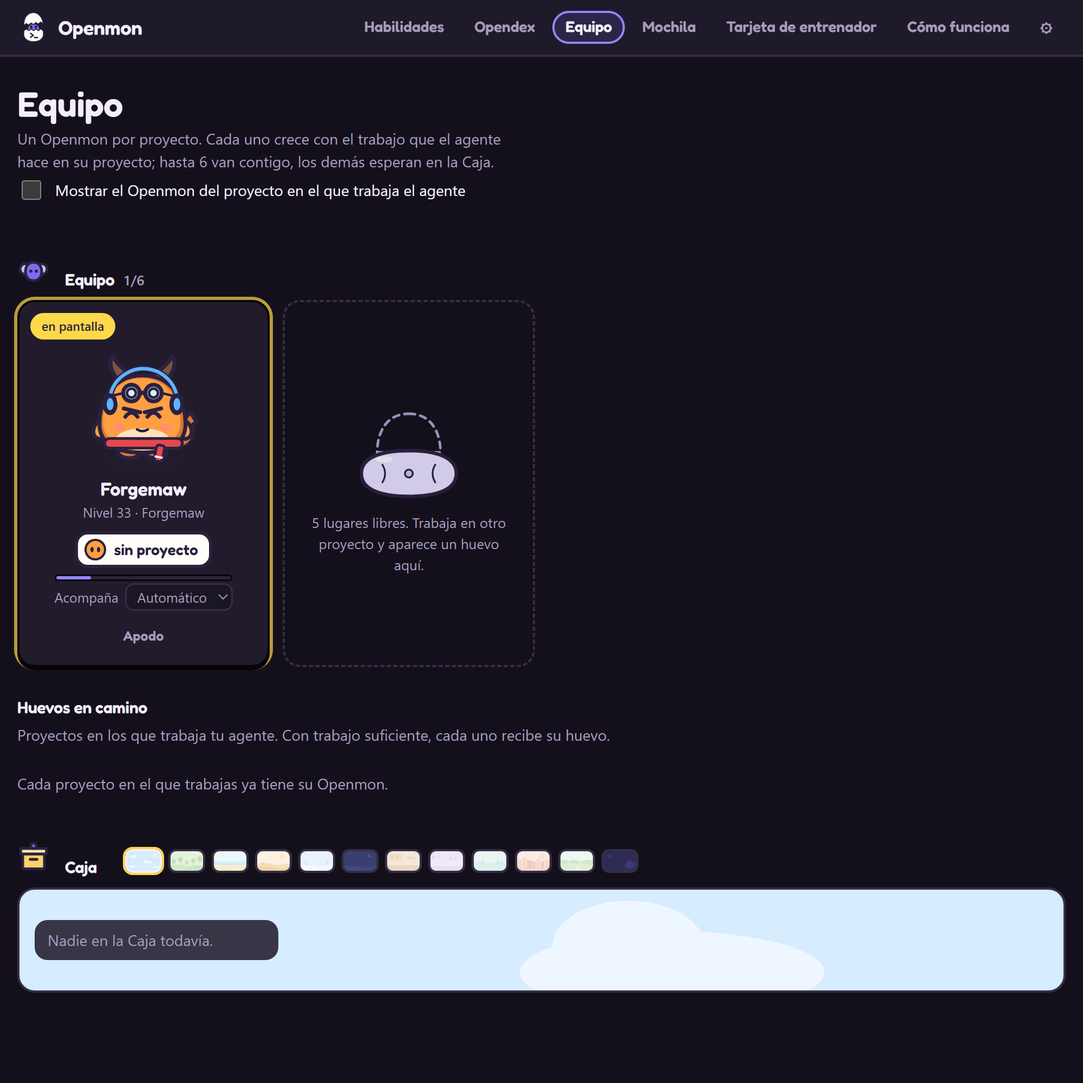
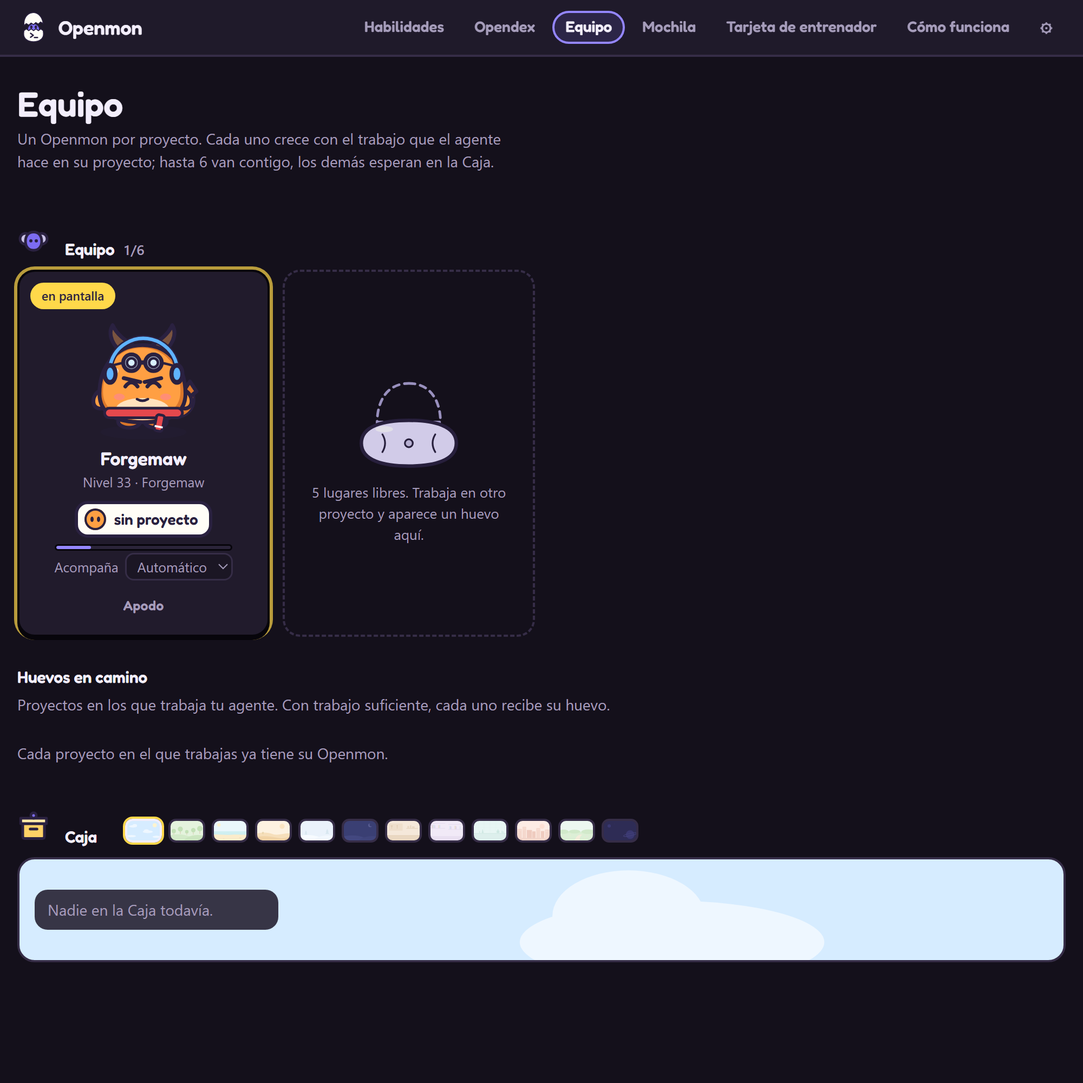
Drop "show the active project's pet": Follows replaces it
Pinning a project to an Openmon (Party > Follows) now covers what the
old switch did, without swapping the main pet behind your back. The
switch, its setting, its toast and its texts are gone in the three
languages; an old config key is simply ignored.

diff --git a/public/help.html b/public/help.html
@@ -85,7 +85,7 @@
           ["Como ele vira noturno, regional, Chimera ou da amizade?", "Noturno: evoluir entre meia-noite e 5 da manhã. Regional: 60% de 50 arquivos ou mais numa só linguagem (JavaScript, Python, Rust, Go, Java ou C#). Chimera (oculta): na evolução para adulto, os dois tipos mais fortes quase empatados (menos de 4% de diferença). Forma da amizade: chegar a Ancião com amizade 100 (só Forja e Saber têm essa forma; os outros tipos continuam com a forma de sempre). Noturno e regional são decididos de novo em cada evolução. Pedra de tipo: segurada, a próxima evolução a partir de bebê vai para aquele tipo, mesmo que fosse dar Chimera."],
           ["Como ganho itens?", "Biscoito: um por missão e um por dia de uso. Bala de nível: por dia perfeito (as 3 missões) e a cada 7 dias seguidos. Pedra de tipo: a cada 3 dias seguidos, do trabalho que o agente mais fez. Amuleto de XP: a cada 14 dias seguidos. Ovo misterioso: a cada 30. Doce de amizade: ao fazer 10 carinhos num dia. Os itens são usados no Openmon que está na tela. A Mochila é do time todo: uma pedra que um pet segura não fica livre para outro, e volta para a Mochila se ele se aposentar. Quem não evolui mais (Ancião ou lendário) não segura pedras, e a Mochila não gasta biscoito com amizade cheia nem bala no nível 100."],
           ["Quem ganha a experiência quando tenho vários Openmons?", "Quem acompanha cada conversa, nesta ordem: 1) uma conversa que você fixou num Openmon (botão direito → Agentes → clique no nome do pet ao lado da conversa); 2) um projeto que você fixou num Openmon (Time → \"Acompanha\"); 3) o Openmon do próprio projeto, enquanto ele está no Time; 4) a fila: com mais de um na tela, cada conversa nova vai para um deles, na vez de cada um. Em Configurações → Pet dá para desligar a divisão; aí tudo fica com o principal, menos o que você fixou. Na Caixa, os pets descansam e não ganham XP. Lendários ganham nível, mas nunca evoluem. É de cada pet: nível, tipo, amizade, acessórios que está usando e o item que segura. É do time todo: Mochila, Opendex, insígnias, acessórios ganhos, missões e dias seguidos. O Amuleto de XP vale para o time todo."],
-          ["Posso ter mais de um Openmon na tela?", "Sim, até mais 2 do Time ao lado do principal (Time → \"Também na tela\"). Clique num deles para fazer carinho: a amizade é só dele. \"Colocar na tela\" troca qual é o principal. Mandar para a Caixa tira ele da tela. Com \"Mostrar o Openmon do projeto em que o agente está trabalhando\" ligado, o pet daquele projeto vira o principal e troca de lugar com o que estava na tela."],
+          ["Posso ter mais de um Openmon na tela?", "Sim, até mais 2 do Time ao lado do principal (Time → \"Também na tela\"). Clique num deles para fazer carinho: a amizade é só dele. \"Colocar na tela\" troca qual é o principal. Mandar para a Caixa tira ele da tela. Para um pet seguir sempre um projeto, use \"Acompanha\" no Time."],
           ["O que acontece quando aposento um Openmon?", "Só o Openmon na tela, no estágio Ancião e que não seja lendário, pode se aposentar, pelo menu do ícone da bandeja (ele pergunta antes). Ele vai para o Hall da Fama na Opendex e bota um ovo no mesmo lugar do Time e no mesmo projeto. O ovo começa com um décimo dos atributos dele e mantém Opendex, insígnias, Mochila, acessórios ganhos, missões do dia, dias seguidos e diário."],
           ["Como libero os acessórios?", "Cada acessório bloqueado mostra na Mochila o que fazer e quanto falta. Alguns dependem da época: o chapéu de abóbora em outubro e o gorro de Natal em dezembro. A mochilinha pede um de cada tipo de item (qualquer pedra de tipo vale). Uma vez ganho, o acessório é seu para sempre, em todas as gerações."],
           ['O que é a Opendex?', 'Um álbum com todas as formas que um Openmon pode ter. As que você já viu aparecem coloridas; as outras ficam em silhueta.'],
@@ -128,7 +128,7 @@
           ["¿Cómo se vuelve nocturno, regional, Chimera o de amistad?", "Nocturno: evolucionar entre medianoche y las 5. Regional: 60% de 50 archivos o más en un solo lenguaje (JavaScript, Python, Rust, Go, Java o C#). Chimera (oculta): al evolucionar a adulto, los dos tipos más fuertes casi empatados (menos de 4% de diferencia). Forma de amistad: llegar a Anciano con amistad 100 (solo Forja y Saber tienen esa forma; los demás tipos mantienen su forma de siempre). Nocturno y regional se deciden de nuevo en cada evolución. Piedra de tipo: sostenida, la siguiente evolución desde bebé va a ese tipo, aunque fuera a dar Chimera."],
           ["¿Cómo consigo objetos?", "Galleta: una por misión y una por día de uso. Caramelo de nivel: por día perfecto (las 3 misiones) y cada 7 días seguidos. Piedra de tipo: cada 3 días seguidos, del trabajo que más hizo el agente. Amuleto de XP: cada 14 días seguidos. Huevo misterioso: cada 30. Dulce de amistad: al acariciarlo 10 veces en un día. Los objetos se usan en el Openmon que está en pantalla. La Mochila es de todo el equipo: una piedra que sostiene una mascota no queda libre para otra, y vuelve a la Mochila si se retira. Quien ya no evoluciona (Anciano o legendario) no sostiene piedras, y la Mochila no gasta galletas con la amistad llena ni caramelos en el nivel 100."],
           ["¿Quién gana la experiencia cuando tengo varios Openmons?", "Quién acompaña cada conversación, en este orden: 1) una conversación que fijaste en un Openmon (clic derecho → Agentes → clic en el nombre de la mascota junto a la conversación); 2) un proyecto que fijaste en un Openmon (Equipo → \"Acompaña\"); 3) el Openmon del propio proyecto, mientras está en el Equipo; 4) la fila: con más de uno en pantalla, cada conversación nueva va a uno de ellos, por turno. En Ajustes → Mascota puedes apagar el reparto; entonces todo queda con el principal, salvo lo que fijaste. En la Caja, las mascotas descansan y no ganan XP. Los legendarios suben de nivel, pero nunca evolucionan. Es de cada mascota: nivel, tipo, amistad, accesorios que lleva puestos y el objeto que sostiene. Es de todo el equipo: Mochila, Opendex, insignias, accesorios ganados, misiones y días seguidos. El Amuleto de XP vale para todo el equipo."],
-          ["¿Puedo tener más de un Openmon en pantalla?", "Sí, hasta 2 más del Equipo junto al principal (Equipo → \"También en pantalla\"). Haz clic en uno para acariciarlo: la amistad es solo suya. \"Poner en pantalla\" cambia cuál es el principal. Mandarlo a la Caja lo saca de la pantalla. Con \"Mostrar el Openmon del proyecto en el que trabaja el agente\" activado, la mascota de ese proyecto pasa a ser la principal y cambia de lugar con la que estaba en pantalla."],
+          ["¿Puedo tener más de un Openmon en pantalla?", "Sí, hasta 2 más del Equipo junto al principal (Equipo → \"También en pantalla\"). Haz clic en uno para acariciarlo: la amistad es solo suya. \"Poner en pantalla\" cambia cuál es el principal. Mandarlo a la Caja lo saca de la pantalla. Para que una mascota siga siempre un proyecto, usa \"Acompaña\" en el Equipo."],
           ["¿Qué pasa cuando retiro un Openmon?", "Solo el Openmon en pantalla, en la etapa Anciano y que no sea legendario, puede retirarse, desde el menú del icono de la bandeja (pregunta antes). Va al Salón de la Fama en la Opendex y pone un huevo en el mismo lugar del Equipo y en el mismo proyecto. El huevo empieza con una décima parte de sus atributos y conserva Opendex, insignias, Mochila, accesorios ganados, misiones del día, días seguidos y diario."],
           ["¿Cómo desbloqueo los accesorios?", "Cada accesorio bloqueado muestra en la Mochila qué hacer y cuánto falta. Algunos dependen de la época: el sombrero de calabaza en octubre y el gorro de Navidad en diciembre. La mochilita pide uno de cada tipo de objeto (cualquier piedra de tipo cuenta). Una vez ganado, el accesorio es tuyo para siempre, en todas las generaciones."],
           ['¿Qué es la Opendex?', 'Un álbum con todas las formas que puede tener un Openmon. Las que ya viste aparecen en color; las demás, en silueta.'],
@@ -170,7 +170,7 @@
           ["How does it become night, regional, Chimera or friendship?", "Night: evolve between midnight and 5 am. Regional: 60% of 50 or more files in one language (JavaScript, Python, Rust, Go, Java or C#). Chimera (hidden): at the adult evolution, the two strongest types almost tied (less than 4% apart). Friendship form: become an Elder with friendship 100 (only Craft and Lore have one; other types keep their usual form). Night and regional are decided again at every evolution. Type stone: held, the next evolution from baby on goes to that type, even when it would have been a Chimera."],
           ["How do I get items?", "Snack: one per mission and one per day of use. Level candy: for a perfect day (all 3 missions) and every 7 days in a row. Type stone: every 3 days in a row, of the work your agent did most. XP charm: every 14 days in a row. Mystery egg: every 30. Friendship candy: pet it 10 times in a day. Items are used on the Openmon on screen. The Bag belongs to the whole team: a stone one pet holds is not free for another, and it goes back to the Bag if that pet retires. A pet that no longer evolves (Elder or legendary) holds no stones, and the Bag does not spend a snack at full friendship or a candy at level 100."],
           ["Who gets the experience when I have several Openmons?", "Who follows each conversation, in this order: 1) a conversation you pinned to an Openmon (right-click → Agents → click the pet's name next to the conversation); 2) a project you pinned to an Openmon (Party → \"Follows\"); 3) the project's own Openmon, while it is in the Party; 4) the queue: with more than one on screen, each new conversation goes to one of them, in turn. In Settings → Pet you can turn sharing off; then everything stays with the main one, except what you pinned. In the Box, pets rest and earn no XP. Legendaries gain levels but never evolve. Each pet has its own level, type, friendship, worn accessories and held item. The whole team shares the Bag, the Opendex, badges, earned accessories, missions and your streak. The XP charm works for the whole team."],
-          ["Can I have more than one Openmon on screen?", "Yes, up to 2 more from your Party next to the main one (Party → \"Also on screen\"). Click one to pet it: the friendship is its own. \"Put on screen\" changes which one is the main pet. Sending one to the Box takes it off the screen. With \"Show the Openmon of the project your agent is working in\" on, that project's pet becomes the main one and swaps places with the one on screen."],
+          ["Can I have more than one Openmon on screen?", "Yes, up to 2 more from your Party next to the main one (Party → \"Also on screen\"). Click one to pet it: the friendship is its own. \"Put on screen\" changes which one is the main pet. Sending one to the Box takes it off the screen. To have a pet always follow a project, use \"Follows\" in the Party."],
           ["What happens when I retire an Openmon?", "Only the Openmon on screen, at the Elder stage and not a legendary, can retire, from the tray icon menu (it asks first). It joins the Hall of Fame in the Opendex and lays an egg in the same Party slot and the same project. The egg starts with a tenth of its stats and keeps the Opendex, badges, Bag, earned accessories, today's missions, your streak and the journal."],
           ["How do I unlock accessories?", "Every locked accessory shows in the Bag what to do and how far along you are. Some depend on the season: the pumpkin hat in October and the Santa hat in December. The little backpack asks for one of every kind of item (any type stone counts). Once earned, an accessory is yours for good, in every generation."],
           ['What is the Opendex?', 'An album of every form an Openmon can take. The ones you have seen are in colour; the rest are silhouettes.'],

diff --git a/src/server.js b/src/server.js
@@ -108,7 +108,7 @@ function createDaemon({ port = DEFAULT_PORT, store = createStore(), now = Date.n
   let restoreOffer = freshInstall && backups ? backups.latest() : null;
   let world = real;
   // Settings live in ~/.openmon/config.json, so they survive restarts.
-  const DEFAULTS = { muted: false, notify: true, chatter: true, stroll: true, followProject: false, focusUntil: null, present: false, breakEvery: 0, phoneAlerts: false, phoneTopic: '', phoneProject: false, phoneAfterSec: 60, quietUntil: null, scale: 1, tips: [], answerFromPet: false, answerWaitSec: 25, seasons: false, companions: [], shareSessions: true, follows: {} };
+  const DEFAULTS = { muted: false, notify: true, chatter: true, stroll: true, focusUntil: null, present: false, breakEvery: 0, phoneAlerts: false, phoneTopic: '', phoneProject: false, phoneAfterSec: 60, quietUntil: null, scale: 1, tips: [], answerFromPet: false, answerWaitSec: 25, seasons: false, companions: [], shareSessions: true, follows: {} };
   let config = { ...DEFAULTS };
   try {
     if (configFile) config = { ...DEFAULTS, ...JSON.parse(fs.readFileSync(configFile, 'utf8')) };
@@ -319,7 +319,6 @@ function createDaemon({ port = DEFAULT_PORT, store = createStore(), now = Date.n
     // The real pet routes work to the pet of each project (Party); the demo
     // pet is a single egg.
     const events = target === real ? party.applySignal(real.pet, signal, ctx, t, petForSession(signal)) : pet.applySignal(target.pet, signal, ctx, t);
-    if (target === real) followProject(signal, t, events);
     if (target === real) events.push(...target.sessions.takeNotices());
     if (target === real) noteActivity(t);
     // Agent time per project: the gap since this session's previous event.
@@ -336,19 +335,6 @@ function createDaemon({ port = DEFAULT_PORT, store = createStore(), now = Date.n
     if (target === real) persist(events.some((e) => e.type === 'evolve'));
     log(`${signal.kind.padEnd(14)} ${signal.label}${signal.detail ? ` · ${signal.detail}` : ''}`);
     return events;
-  }
-
-  // "Show the pet of the project your agent is working in": switches the pet
-  // on screen to that project's own pet (at most every 20 s).
-  let lastFollow = 0;
-  function followProject(signal, t, events) {
-    if (!config.followProject || signal.kind !== 'tool-start' || t - lastFollow < 20_000) return;
-    const target = party.petFor(real.pet, party.projectOf(signal));
-    if (target === real.pet || target.place !== 'party') return;
-    // A companion swaps places with the main pet, so it stays on screen.
-    swapMain(target.id);
-    lastFollow = t;
-    events.push({ type: 'switched', project: target.project });
   }
 
   function partyAction(fn) {
@@ -890,7 +876,6 @@ function createDaemon({ port = DEFAULT_PORT, store = createStore(), now = Date.n
           if (typeof body.seasons === 'boolean') Object.assign(patch, { seasons: body.seasons, seasonsChosen: true });
           // Other Openmons of the team standing next to the main one (2 at most).
           if (Array.isArray(body.companions)) patch.companions = [...new Set(body.companions.filter((id) => typeof id === 'string' && /^[a-f0-9]{6,32}$/.test(id)))].slice(0, MAX_COMPANIONS);
-          if (typeof body.followProject === 'boolean') patch.followProject = body.followProject;
           if (typeof body.shareSessions === 'boolean') patch.shareSessions = body.shareSessions;
           if (typeof body.present === 'boolean') patch.present = body.present;
           if (typeof body.lang === 'string' && /^(en|pt-BR|es)$/.test(body.lang)) patch.lang = body.lang;

diff --git a/public/settings.html b/public/settings.html
@@ -90,7 +90,6 @@
       stroll: 'Passear pela tela', strollSub: 'Ele anda alguns passos quando está à toa.',
       seasons: 'Cores de época', seasonsSub: 'Em fevereiro, outubro e dezembro, ele usa as cores da época.',
       share: 'Dividir conversas entre os Openmons na tela', shareSub: 'Cada conversa nova vai para um deles, na vez de cada um. Desligado: tudo fica com o principal, menos o que você fixar.',
-      follow: 'Mostrar o Openmon do projeto ativo', followSub: 'O pet da tela troca para o do projeto em que o agente está trabalhando.',
       notify: 'Notificação do sistema', notifySub: 'Quando um agente espera por você e o pet não está à vista.',
       answerOn: 'Responder permissões pelo pet', answerOnSub: 'O balão mostra Permitir, Sempre permitir e Recusar. Desligado por padrão.',
       wait: 'Tempo de espera', waitSub: 'Quanto o Claude Code espera sua resposta no pet; depois ele pergunta como sempre.',
@@ -137,7 +136,6 @@
       stroll: 'Pasear por la pantalla', strollSub: 'Da unos pasos cuando no hace nada.',
       seasons: 'Colores de temporada', seasonsSub: 'En febrero, octubre y diciembre usa los colores de la temporada.',
       share: 'Repartir conversaciones entre los Openmons en pantalla', shareSub: 'Cada conversación nueva va a uno de ellos, por turno. Apagado: todo queda con el principal, salvo lo que fijes.',
-      follow: 'Mostrar el Openmon del proyecto activo', followSub: 'La mascota en pantalla cambia a la del proyecto en el que trabaja el agente.',
       notify: 'Notificación del sistema', notifySub: 'Cuando un agente te espera y la mascota no está a la vista.',
       answerOn: 'Responder permisos desde la mascota', answerOnSub: 'El globo muestra Permitir, Permitir siempre y Rechazar. Apagado por defecto.',
       wait: 'Tiempo de espera', waitSub: 'Cuánto espera Claude Code tu respuesta en la mascota; después pregunta como siempre.',
@@ -184,7 +182,6 @@
       stroll: 'Walk around', strollSub: 'It takes a few steps when it is idle.',
       seasons: 'Season colours', seasonsSub: 'In February, October and December it wears the season colours.',
       share: 'Share conversations among the Openmons on screen', shareSub: 'Each new conversation goes to one of them, in turn. Off: everything stays with the main one, except what you pin.',
-      follow: 'Show the Openmon of the active project', followSub: 'The pet on screen switches to the one of the project your agent is working in.',
       notify: 'System notification', notifySub: 'When an agent waits for you and the pet is out of sight.',
       answerOn: 'Answer permissions from the pet', answerOnSub: 'The bubble shows Allow, Always allow and Deny. Off by default.',
       wait: 'Waiting time', waitSub: 'How long Claude Code waits for your answer on the pet; after that it asks you as usual.',
@@ -363,7 +360,6 @@
           row(T.chatter, T.chatterSub, toggle('chatter')),
           row(T.stroll, T.strollSub, toggle('stroll')),
           row(T.share, T.shareSub, toggle('shareSessions')),
-          row(T.follow, T.followSub, toggle('followProject')),
         ]),
       ];
     },

diff --git a/public/i18n.js b/public/i18n.js
@@ -248,12 +248,10 @@
       "party.full": "The Party is full: send someone to the Box first.",
       "party.rename": "Nickname",
       "party.emptySlot": "An empty spot. Work in another project and an egg shows up here.",
-      "party.follow": "Show the Openmon of the project your agent is working in",
       "party.newEgg": "A new egg for {project}!",
       "party.newEggSub": "It joined your Party. See it in Party.",
       "party.newEggBox": "Your Party is full, so it waits in the Box.",
       "party.evolved": "{name} evolved into {form}!",
-      "party.switched": "Now showing the Openmon of {project}",
       "region.js": "Brace",
       "region.py": "Serpent",
       "region.rs": "Rust",
@@ -820,12 +818,10 @@
       "party.full": "El Equipo está lleno: envía a alguien a la Caja primero.",
       "party.rename": "Apodo",
       "party.emptySlot": "Un lugar vacío. Trabaja en otro proyecto y aparecerá un huevo aquí.",
-      "party.follow": "Mostrar el Openmon del proyecto en el que trabaja el agente",
       "party.newEgg": "¡Un huevo nuevo para {project}!",
       "party.newEggSub": "Se unió a tu Equipo. Míralo en Equipo.",
       "party.newEggBox": "Tu Equipo está lleno, así que espera en la Caja.",
       "party.evolved": "¡{name} evolucionó a {form}!",
-      "party.switched": "Mostrando el Openmon de {project}",
       "region.js": "Llaves",
       "region.py": "Serpiente",
       "region.rs": "Óxido",
@@ -1402,12 +1398,10 @@
       "party.full": "O Time está cheio: mande alguém para a Caixa antes.",
       "party.rename": "Apelido",
       "party.emptySlot": "Um lugar vazio. Trabalhe em outro projeto e um ovo aparece aqui.",
-      "party.follow": "Mostrar o Openmon do projeto em que o agente está trabalhando",
       "party.newEgg": "Um ovo novo para {project}!",
       "party.newEggSub": "Ele entrou no seu Time. Veja em Time.",
       "party.newEggBox": "Seu Time está cheio, então ele espera na Caixa.",
       "party.evolved": "{name} evoluiu para {form}!",
-      "party.switched": "Mostrando o Openmon de {project}",
       "region.js": "Chaves",
       "region.py": "Serpente",
       "region.rs": "Ferrugem",

diff --git a/public/party.html b/public/party.html
@@ -43,9 +43,7 @@
 </head>
 <body class="page" data-page="party">
 <main class="wrap">
-  <div class="hero"><div><h1 id="title"></h1><p id="sub"></p>
-    <label class="switch"><input type="checkbox" id="follow"><span id="follow-label"></span></label>
-  </div></div>
+  <div class="hero"><div><h1 id="title"></h1><p id="sub"></p></div></div>
   <h2 class="section-title"><img src="/ui/party.svg" alt=""><span id="h-party"></span> <small id="party-count"></small></h2>
   <div class="grid" id="party"></div>
   <h2 class="section-title" id="h-upcoming"></h2>
@@ -62,7 +60,7 @@
   const { t: tr, lang } = window.OpenmonI18n;
   document.documentElement.lang = lang;
   const $ = (id) => document.getElementById(id);
-  for (const [id, key] of [['title', 'party.title'], ['sub', 'party.sub'], ['h-party', 'party.party'], ['h-box', 'party.box'], ['h-upcoming', 'party.upcoming'], ['upcoming-sub', 'party.upcomingSub'], ['follow-label', 'party.follow']]) $(id).textContent = tr(key);
+  for (const [id, key] of [['title', 'party.title'], ['sub', 'party.sub'], ['h-party', 'party.party'], ['h-box', 'party.box'], ['h-upcoming', 'party.upcoming'], ['upcoming-sub', 'party.upcomingSub']]) $(id).textContent = tr(key);
   const el = (tag, cls, text) => {
     const e = document.createElement(tag);
     if (cls) e.className = cls;
@@ -204,7 +202,6 @@
     const s = await (await fetch('/api/state')).json();
     data = s.party;
     cfg = s.config || {};
-    $('follow').checked = Boolean(s.config && s.config.followProject);
     if (data) render();
   }
   // Box wallpaper: a per-viewer choice, remembered in this browser only.
@@ -234,7 +231,6 @@
     }
   }
   renderWalls();
-  $('follow').addEventListener('change', (e) => post('/api/config', { followProject: e.target.checked }));
   OpenmonArt.loadPack().then(load);
   setTimeout(drawAll, 1500);
   setTimeout(drawAll, 3500);

diff --git a/test/mechanics.test.js b/test/mechanics.test.js
@@ -670,21 +670,16 @@ test('daemon: a stone held by another member cannot be held again', async () => 
   }
 });
 
-test('daemon: following the project swaps a companion with the main pet; Box members never show', async () => {
+test('daemon: a companion in the Box is not drawn', async () => {
   const { daemon, port } = await boot();
   try {
     for (let i = 0; i < 61; i++) await request(port, 'POST', '/event', hook('/w/other'));
     let s = await request(port, 'GET', '/api/state');
     const other = s.party.members.find((m) => !m.active);
-    const mainId = s.pet.id;
-    await request(port, 'POST', '/api/config', { companions: [other.id], followProject: true });
-    await request(port, 'POST', '/event', hook('/w/other', 'PreToolUse'));
+    await request(port, 'POST', '/api/config', { companions: [other.id] });
     s = await request(port, 'GET', '/api/state');
-    assert.equal(s.pet.id, other.id);
-    assert.deepEqual(s.config.companions, [mainId]);
-    // A companion in the Box is not drawn.
-    await request(port, 'POST', '/api/config', { followProject: false });
-    await request(port, 'POST', '/api/party/move', { id: mainId, place: 'box' });
+    assert.deepEqual(Object.keys(s.companions), [other.id]);
+    await request(port, 'POST', '/api/party/move', { id: other.id, place: 'box' });
     s = await request(port, 'GET', '/api/state');
     assert.deepEqual(Object.keys(s.companions), []);
   } finally {

diff --git a/public/app.js b/public/app.js
@@ -1181,9 +1181,6 @@
           pushToast(tr('party.newEgg', { project: e.project }), tr(e.place === 'box' ? 'party.newEggBox' : 'party.newEggSub'), 6000);
           play('level');
           break;
-        case 'switched':
-          pushToast(tr('party.switched', { project: e.project }), '', 3000);
-          break;
         case 'tests-fixed':
           pushToast(tr('fixed.title'), e.label, 4500, 'done');
           burst('confetti', 14, petCX(), GROUND - 80, 2, { colors: ['#5ccf74', '#fff', '#ffe156'], gravity: 260 });

diff --git a/docs/GAME.es.md b/docs/GAME.es.md
@@ -45,7 +45,7 @@ El trabajo raro vale más, así que cualquier tipo puede ganar. Y hay un linaje 
 
 ## Un Openmon por proyecto
 
-Cada proyecto en el que el agente trabaja bastante gana **su propio huevo**. Hasta 6 van en el **Equipo**; los demás esperan en la **Caja**, con 12 fondos para elegir. Hasta 3 pueden estar en pantalla a la vez: en el Equipo, usa "También en pantalla"; cada uno muestra lo que hace el agente de su proyecto. Cada uno crece solo con el trabajo de su proyecto, y la Mochila, la Opendex y las insignias son tuyas, de entrenador, y valen para todos. En la página **Equipo** eliges quién está en pantalla, o activas "Mostrar el Openmon del proyecto en el que trabaja el agente". Las carpetas temporales (la carpeta temporal del sistema o el área de borrador de una app) no cuentan como proyecto. Todo trabajo sin un Openmon propio en el Equipo (carpeta temporal, proyecto nuevo, mascota descansando en la Caja) entrena al **Openmon principal**, el de la pantalla: para entrenar un huevo, hazlo el principal. Con más de un Openmon en pantalla, cada sesión de agente sin mascota propia va a uno de ellos, el que tenga menos sesiones, y se queda con él: esa mascota gana su XP y la muestra en su tarjeta. En la Caja descansan y no ganan XP.
+Cada proyecto en el que el agente trabaja bastante gana **su propio huevo**. Hasta 6 van en el **Equipo**; los demás esperan en la **Caja**, con 12 fondos para elegir. Hasta 3 pueden estar en pantalla a la vez: en el Equipo, usa "También en pantalla"; cada uno muestra lo que hace el agente de su proyecto. Cada uno crece solo con el trabajo de su proyecto, y la Mochila, la Opendex y las insignias son tuyas, de entrenador, y valen para todos. En la página **Equipo** eliges quién está en pantalla y qué acompaña cada uno. Las carpetas temporales (la carpeta temporal del sistema o el área de borrador de una app) no cuentan como proyecto. Todo trabajo sin un Openmon propio en el Equipo (carpeta temporal, proyecto nuevo, mascota descansando en la Caja) entrena al **Openmon principal**, el de la pantalla: para entrenar un huevo, hazlo el principal. Con más de un Openmon en pantalla, cada sesión de agente sin mascota propia va a uno de ellos, el que tenga menos sesiones, y se queda con él: esa mascota gana su XP y la muestra en su tarjeta. En la Caja descansan y no ganan XP.
 
 **Quién acompaña qué.** Quién acompaña cada conversación, en este orden: 1) una conversación que fijaste en un Openmon (clic derecho → Agentes → clic en el nombre de la mascota junto a la conversación); 2) un proyecto que fijaste en un Openmon (Equipo → "Acompaña"); 3) el Openmon del propio proyecto, mientras está en el Equipo; 4) la fila: con más de uno en pantalla, cada conversación nueva va a uno de ellos, por turno. En Ajustes → Mascota puedes apagar el reparto; entonces todo queda con el principal, salvo lo que fijaste. En la Caja, las mascotas descansan y no ganan XP.
 

diff --git a/docs/GAME.md b/docs/GAME.md
@@ -45,7 +45,7 @@ Trabalho raro vale mais, então todo tipo pode vencer. E existe uma linhagem esc
 
 ## Um Openmon por projeto
 
-Cada projeto em que o agente trabalha bastante ganha **o seu próprio ovo**. Até 6 andam no **Time**; os outros esperam na **Caixa**, com 12 papéis de parede para escolher. Até 3 podem ficar na tela ao mesmo tempo: no Time, use "Também na tela"; cada um mostra o que o agente do seu projeto está fazendo. Cada um cresce só com o trabalho do seu projeto, e a Mochila, a Opendex e as insígnias são suas, de treinador, e valem para todos. Na página **Time** você escolhe quem fica na tela, ou liga "Mostrar o Openmon do projeto em que o agente está trabalhando". Pastas temporárias (a pasta temporária do sistema ou a área de rascunho de um app) não contam como projeto. Todo trabalho sem um Openmon próprio no Time (pasta temporária, projeto novo, pet descansando na Caixa) treina o **Openmon principal**, o da tela: para treinar um ovo, faça dele o principal. Com mais de um Openmon na tela, cada sessão de agente sem pet próprio vai para um deles, o que tiver menos sessões, e fica com ele: esse pet ganha o XP dela e a mostra no seu card. Na Caixa, eles descansam e não ganham XP.
+Cada projeto em que o agente trabalha bastante ganha **o seu próprio ovo**. Até 6 andam no **Time**; os outros esperam na **Caixa**, com 12 papéis de parede para escolher. Até 3 podem ficar na tela ao mesmo tempo: no Time, use "Também na tela"; cada um mostra o que o agente do seu projeto está fazendo. Cada um cresce só com o trabalho do seu projeto, e a Mochila, a Opendex e as insígnias são suas, de treinador, e valem para todos. Na página **Time** você escolhe quem fica na tela e o que cada um acompanha. Pastas temporárias (a pasta temporária do sistema ou a área de rascunho de um app) não contam como projeto. Todo trabalho sem um Openmon próprio no Time (pasta temporária, projeto novo, pet descansando na Caixa) treina o **Openmon principal**, o da tela: para treinar um ovo, faça dele o principal. Com mais de um Openmon na tela, cada sessão de agente sem pet próprio vai para um deles, o que tiver menos sessões, e fica com ele: esse pet ganha o XP dela e a mostra no seu card. Na Caixa, eles descansam e não ganham XP.
 
 **Quem acompanha o quê.** Quem acompanha cada conversa, nesta ordem: 1) uma conversa que você fixou num Openmon (botão direito → Agentes → clique no nome do pet ao lado da conversa); 2) um projeto que você fixou num Openmon (Time → "Acompanha"); 3) o Openmon do próprio projeto, enquanto ele está no Time; 4) a fila: com mais de um na tela, cada conversa nova vai para um deles, na vez de cada um. Em Configurações → Pet dá para desligar a divisão; aí tudo fica com o principal, menos o que você fixou. Na Caixa, os pets descansam e não ganham XP.
 

diff --git a/docs/GAME.en.md b/docs/GAME.en.md
@@ -45,7 +45,7 @@ Rare work counts more, so every type can win. And there is a hidden line few wil
 
 ## One Openmon per project
 
-Every project your agent works on enough gets **its own egg**. Up to 6 travel in your **Party**; the rest wait in the **Box**, with 12 wallpapers to pick from. Up to 3 can be on screen at once: on the Party page, use "Also on screen"; each one shows what its own project's agent is doing. Each one grows only from its project's work, while the Bag, Opendex and badges belong to you as a trainer and count for all of them. On the **Party** page you pick who is on screen, or turn on "Show the Openmon of the project your agent is working in". Temporary folders (the system temp folder or an app's scratch workspace) are not projects. Any work without its own Openmon in the Party (a temporary folder, a new project, a pet resting in the Box) trains the **main Openmon**, the one on screen: to train an egg, make it the main one. With more than one Openmon on screen, each agent session without a pet of its own goes to one of them, the one with the fewest sessions, and stays with it: that pet earns its XP and shows it on its card. In the Box, pets rest and earn no XP.
+Every project your agent works on enough gets **its own egg**. Up to 6 travel in your **Party**; the rest wait in the **Box**, with 12 wallpapers to pick from. Up to 3 can be on screen at once: on the Party page, use "Also on screen"; each one shows what its own project's agent is doing. Each one grows only from its project's work, while the Bag, Opendex and badges belong to you as a trainer and count for all of them. On the **Party** page you pick who is on screen and what each one follows. Temporary folders (the system temp folder or an app's scratch workspace) are not projects. Any work without its own Openmon in the Party (a temporary folder, a new project, a pet resting in the Box) trains the **main Openmon**, the one on screen: to train an egg, make it the main one. With more than one Openmon on screen, each agent session without a pet of its own goes to one of them, the one with the fewest sessions, and stays with it: that pet earns its XP and shows it on its card. In the Box, pets rest and earn no XP.
 
 **Who follows what.** Who follows each conversation, in this order: 1) a conversation you pinned to an Openmon (right-click → Agents → click the pet's name next to the conversation); 2) a project you pinned to an Openmon (Party → "Follows"); 3) the project's own Openmon, while it is in the Party; 4) the queue: with more than one on screen, each new conversation goes to one of them, in turn. In Settings → Pet you can turn sharing off; then everything stays with the main one, except what you pinned. In the Box, pets rest and earn no XP.
 

diff --git a/README.es.md b/README.es.md
@@ -144,7 +144,7 @@ El huevo aparece en la esquina de la pantalla y un ícono en la bandeja. Abre un
 
 Haz clic derecho en la mascota y en **Más**, al pie de la tarjeta (o en el ícono de la bandeja). El menú tiene la tarjeta, las páginas, el **modo foco**, el **modo silencio** y la **Configuración**, una página con seis secciones:
 
-* **Mascota**: apodo, tamaño, idioma, colores de temporada, sonidos, frases, pasear por la pantalla y mostrar el Openmon del proyecto activo.
+* **Mascota**: apodo, tamaño, idioma, colores de temporada, sonidos, frases, pasear por la pantalla y repartir las conversaciones entre los Openmons en pantalla.
 * **Avisos**: notificación del sistema y responder permisos desde la mascota (con el tiempo de espera).
 * **Foco y calma**: modo foco, modo silencio, modo presentación y recordatorio de pausa.
 * **Celular**: aviso en el celular con la app ntfy (opcional).

diff --git a/README.md b/README.md
@@ -144,7 +144,7 @@ O ovo aparece no canto da tela e um ícone surge na bandeja. Abra uma conversa n
 
 Clique com o botão direito no pet e em **Mais**, no pé do card (ou no ícone da bandeja). O menu tem o card, as páginas, o **modo foco**, o **modo silencioso** e as **Configurações**, uma página com seis seções:
 
-* **Pet**: apelido, tamanho, idioma, cores de época, sons, falas, passear pela tela e mostrar o Openmon do projeto ativo.
+* **Pet**: apelido, tamanho, idioma, cores de época, sons, falas, passear pela tela e dividir as conversas entre os Openmons na tela.
 * **Avisos**: notificação do sistema e responder permissões pelo pet (com o tempo de espera).
 * **Foco e calma**: modo foco, modo silencioso, modo apresentação e lembrete de pausa.
 * **Celular**: aviso no celular pelo app ntfy (opcional).
